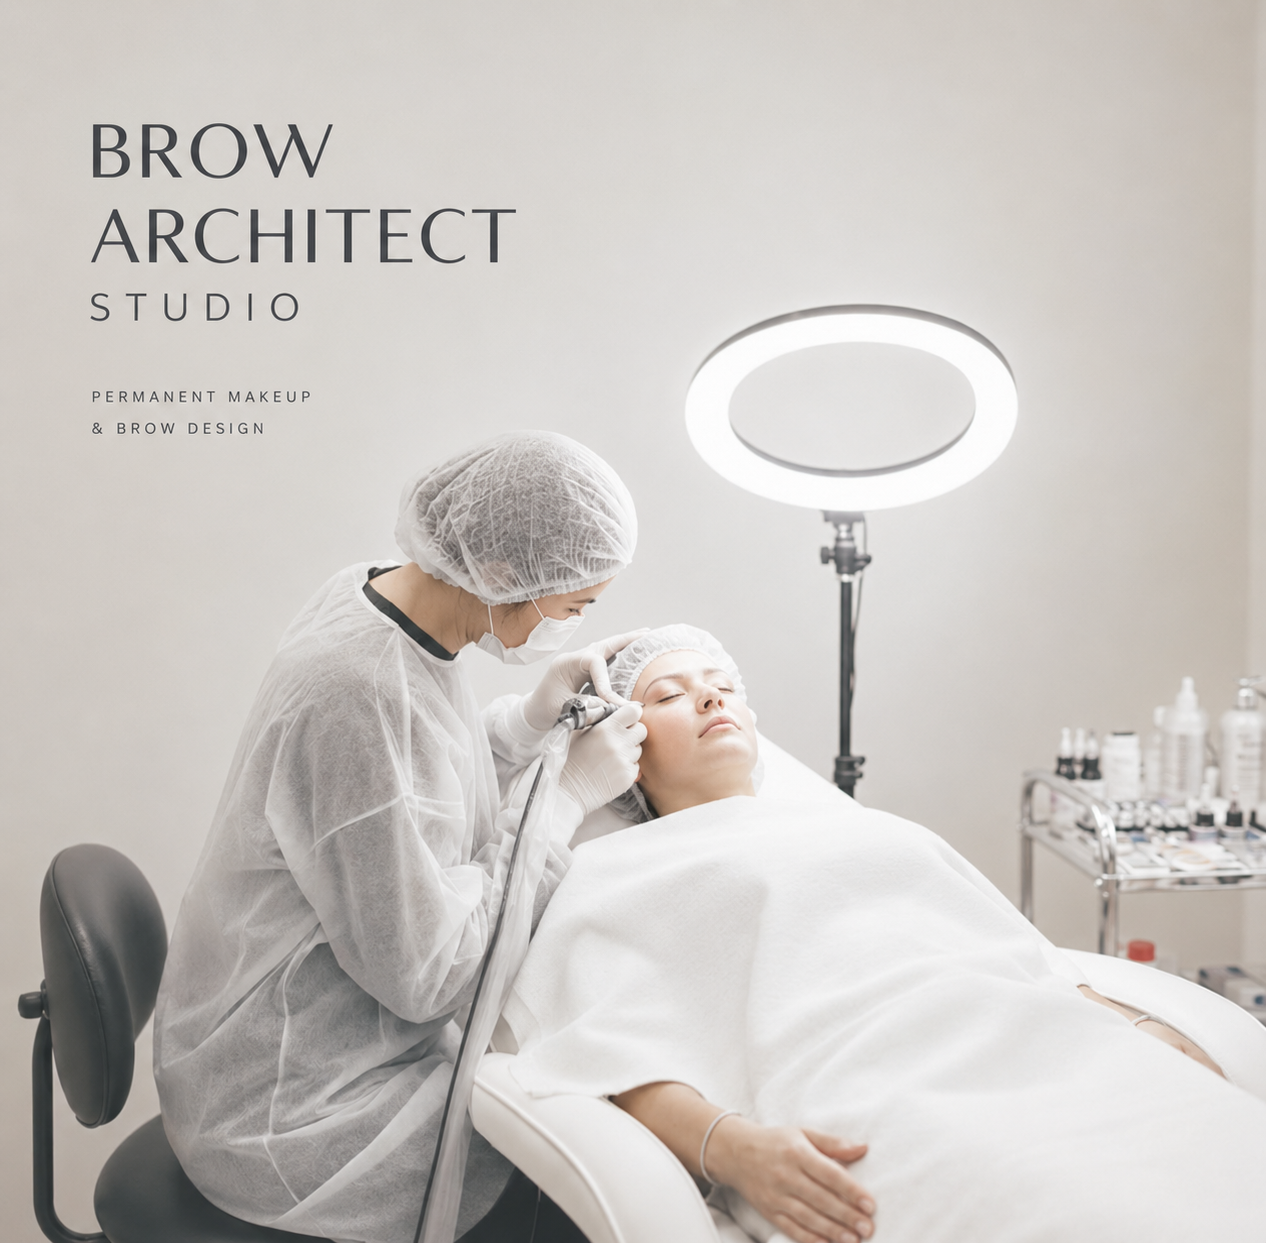
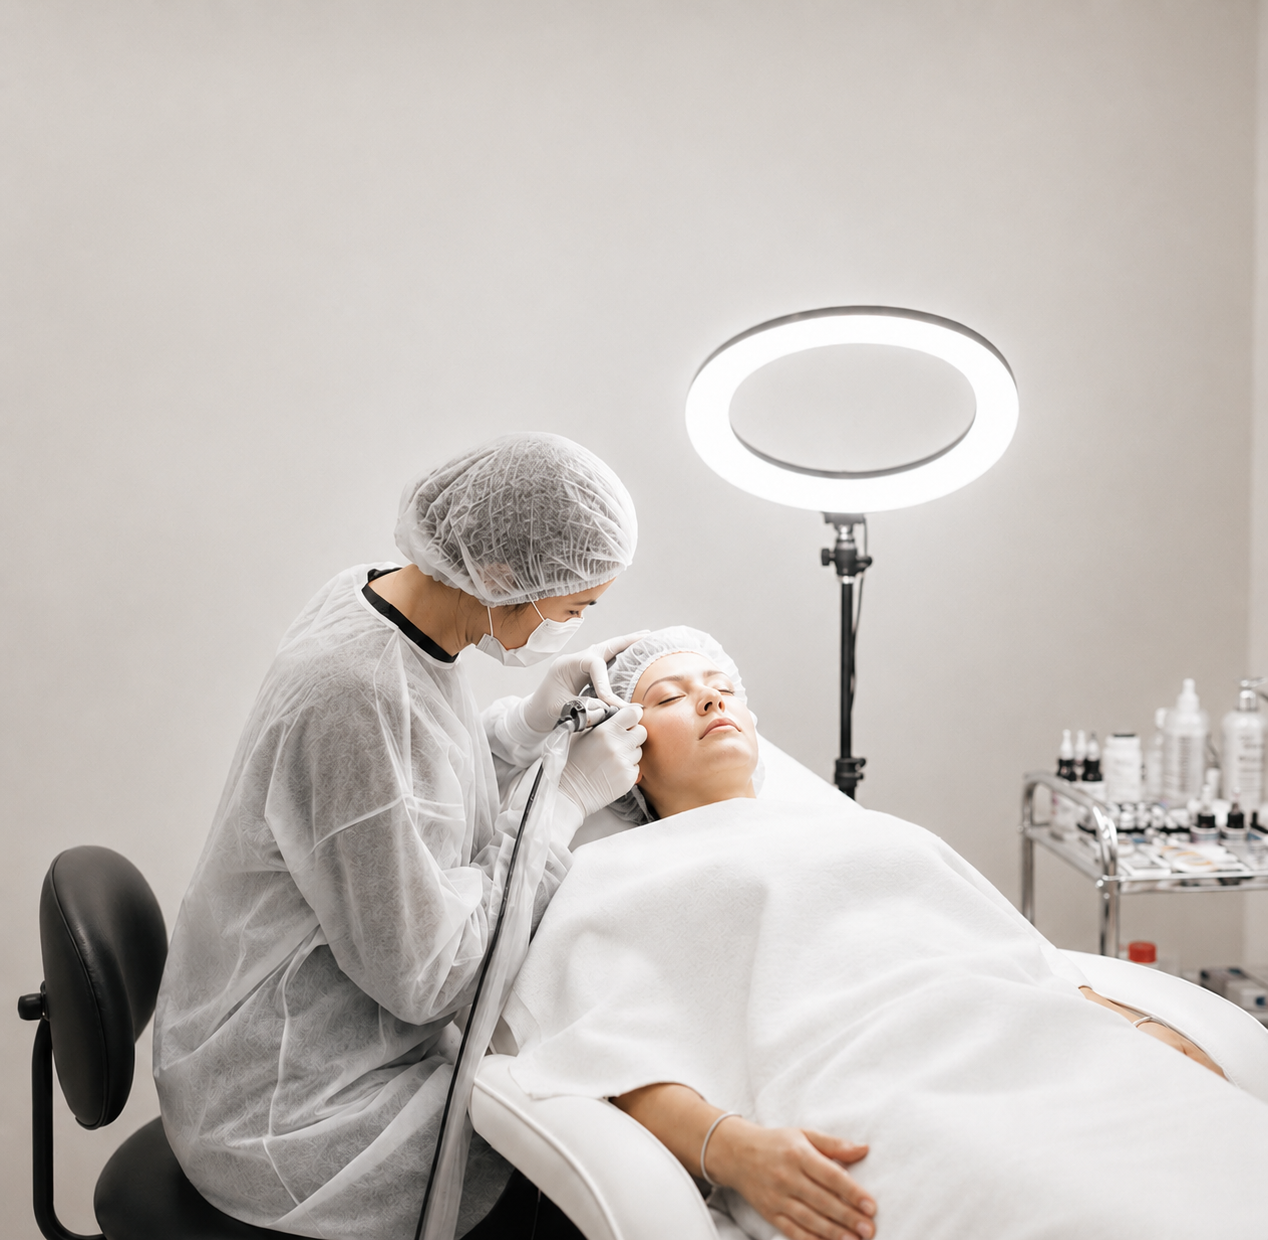
fix

diff --git a/src/react/SiteFooter.tsx b/src/react/SiteFooter.tsx
@@ -91,8 +91,8 @@ export function SiteFooter({ telegramUrl }: SiteFooterProps) {
               <a href="tel:+3513149394" className="transition-colors hover:text-white">
                 +35 1314 9394
               </a>
-              <a href="mailto:ciao@browlip.it" className="transition-colors hover:text-white">
-                ciao@browlip.it
+              <a href="mailto:browarchitect2025@gmail.com" className="transition-colors hover:text-white">
+                browarchitect2025@gmail.com
               </a>
               <a href="https://www.instagram.com/browarchitect.studio/" target="_blank" rel="noopener noreferrer" className="transition-colors hover:text-white">
                 Instagram

diff --git a/design-template/components/site-header.tsx b/design-template/components/site-header.tsx
@@ -36,7 +36,7 @@ export function SiteHeader() {
             </svg>
           </div>
           <span className="font-serif text-xl font-semibold tracking-tight text-foreground">
-            Brow & Lip Studio
+            Brow Architect Studio
           </span>
         </a>
 
